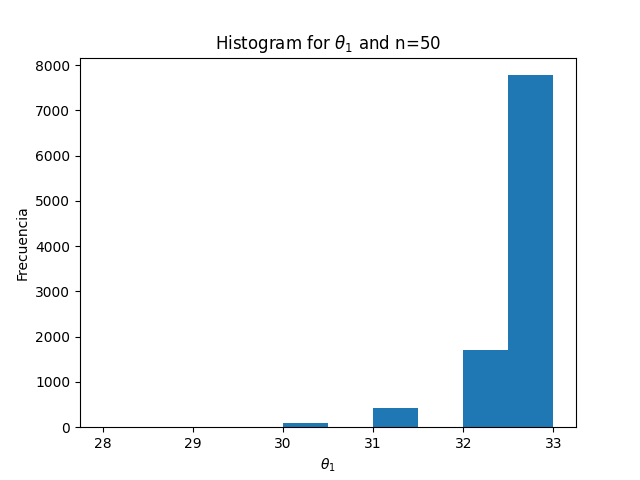
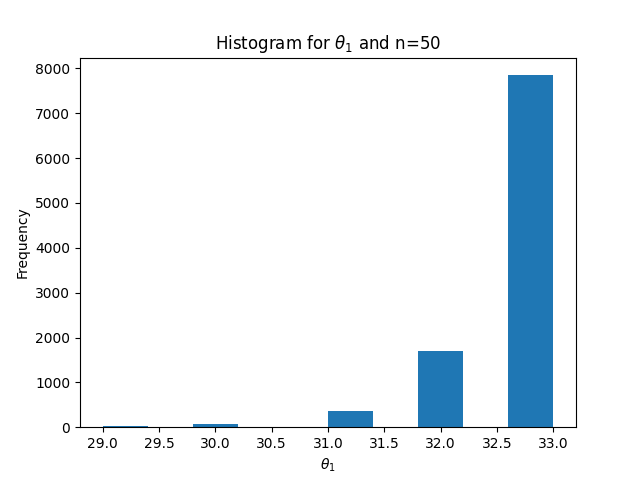
Update code

diff --git a/quiz1.py b/quiz1.py
@@ -1,8 +1,8 @@
+#Made by Sebastian Daza and Santiago Uribe
+
 import numpy as np
 import matplotlib.pyplot as plt
 from sklearn.utils import resample
-
-N = 5000 #poblacion
 
 theta = 34 #parametro
 n_space = [50, 100, 1000]#tamanos de muestra
@@ -23,13 +23,20 @@ for n in n_space:
     plt.clf()
     plt.hist(vec_theta_1)
     plt.title("Histogram for $\\theta_1$ and n={}".format(n))
-    plt.ylabel("Frecuencia")
+    plt.ylabel("Frequency")
     plt.xlabel("$\\theta_1$")
     plt.savefig(f"theta1_n{n}.png")
 
     plt.clf()
     plt.hist(vec_theta_2)
     plt.title("Histogram for $\\theta_2$ and n={}".format(n))
-    plt.ylabel("Frecuencia")
+    plt.ylabel("Frequency")
     plt.xlabel("$\\theta_2$")
     plt.savefig(f"theta2_n{n}.png")
+
+
+"""
+Comentarios de los resultados obtenidos:
+
+
+"""
